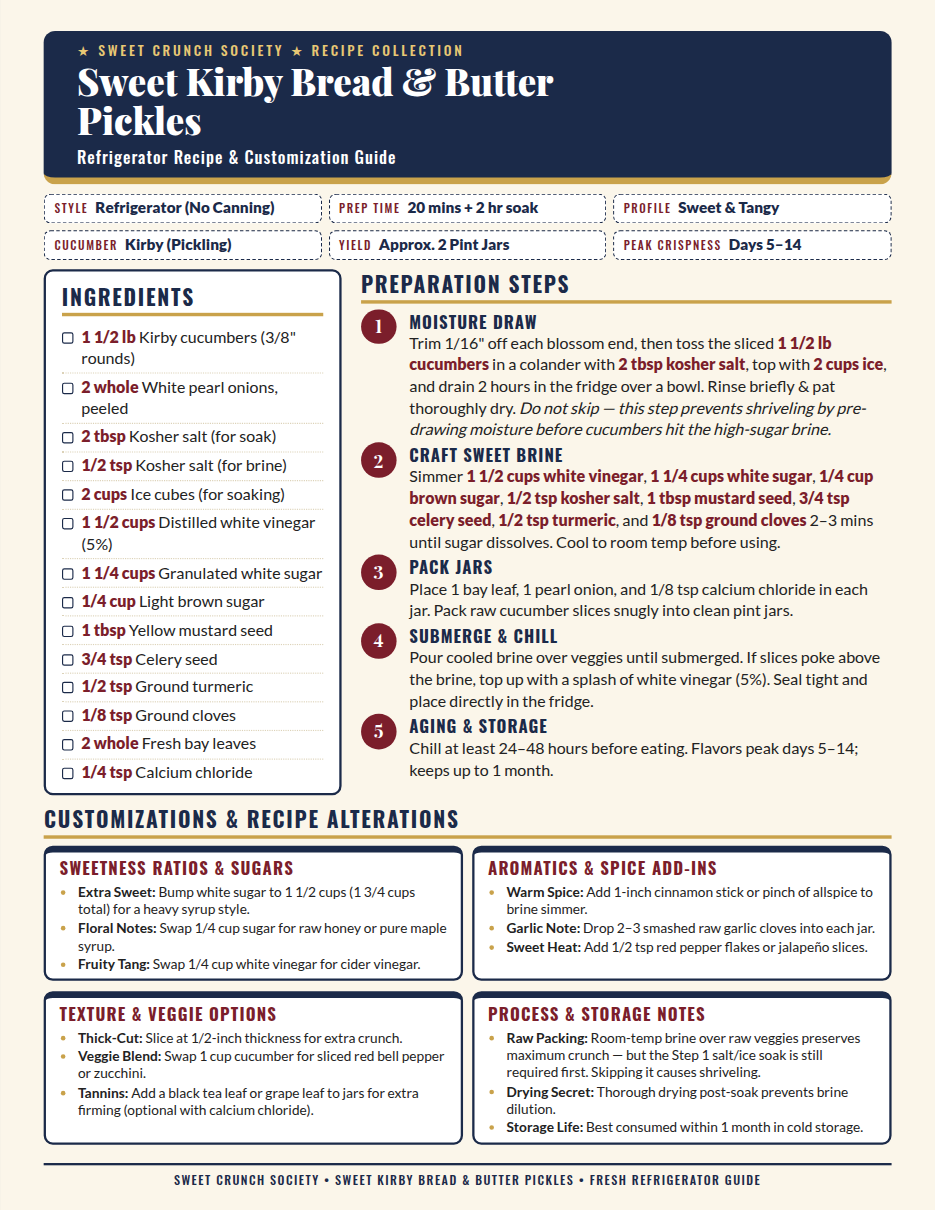
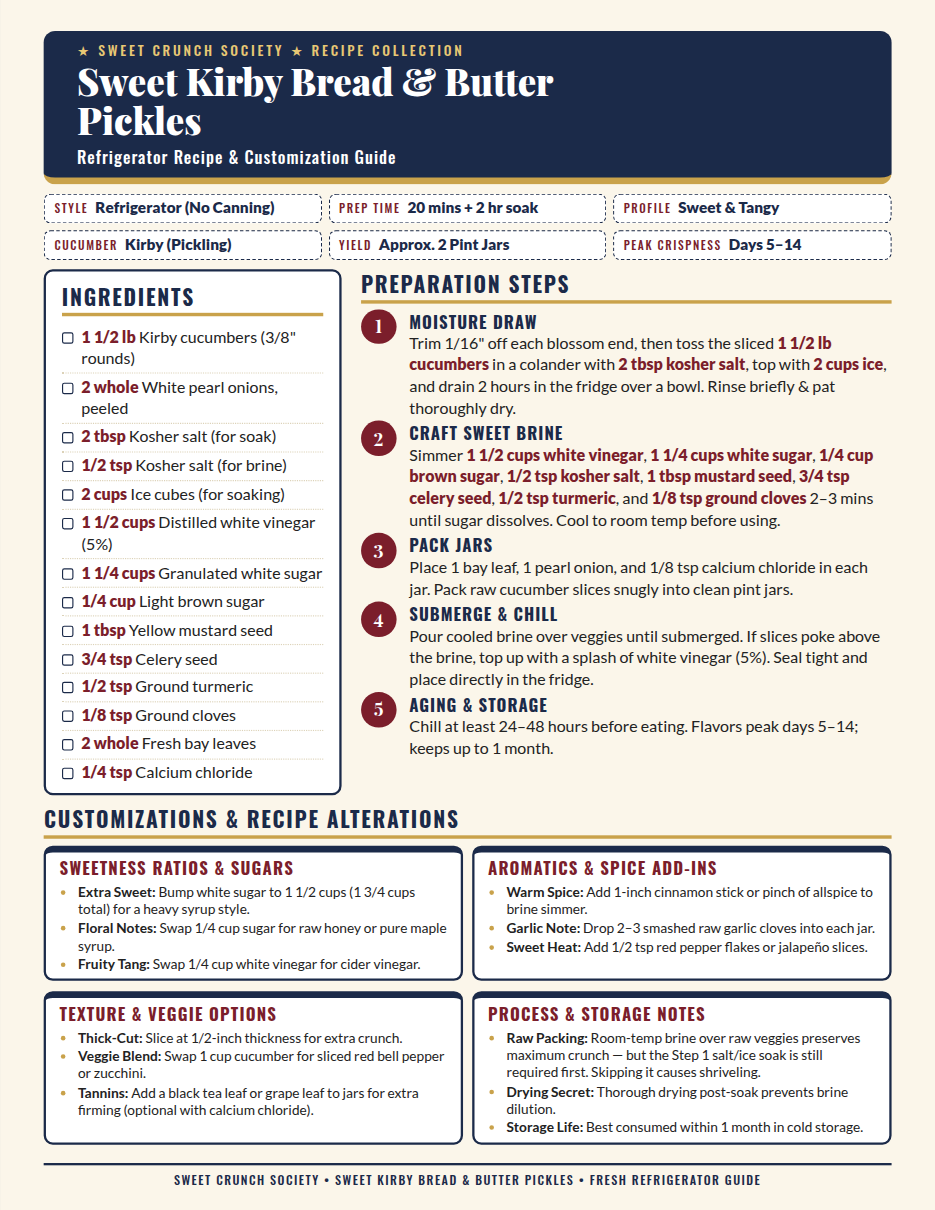
remove: drop "Do not skip" callout from Step 1 on both cards
The italic "Do not skip - this step prevents shriveling..." sentence in the
Moisture Draw step is gone from index.html and index-zesty.html. The
claim was unproven: the first Kirby-switch test showed shriveling even
with the salt/ice soak, so the steps shouldn't assert it as a
requirement. Step 1 now just describes the soak.

The "Raw Packing" notes in Process & Storage Notes still mention the
soak and shriveling; left as-is since only the steps were in scope.

docs: regenerated preview.png and preview-zesty.png. Both cards still
fit one Letter page.

Changed region(s): [[0.3722, 0.3364, 0.9615, 0.6421]]

diff --git a/index-zesty.html b/index-zesty.html
@@ -161,7 +161,7 @@
       <section aria-labelledby="prep">
         <h2 class="sec" id="prep">Preparation Steps</h2>
         <ol class="steps">
-          <li><b>Moisture Draw</b>Trim 1/16" off each blossom end, then toss the sliced <strong>1 1/2 lb cucumbers</strong> in a colander with <strong>2 tbsp kosher salt</strong>, top with <strong>2 cups ice</strong>, and drain 2 hours in the fridge over a bowl. Rinse briefly &amp; pat thoroughly dry. <em>Do not skip — this step prevents shriveling by pre-drawing moisture before cucumbers hit the brine.</em></li>
+          <li><b>Moisture Draw</b>Trim 1/16" off each blossom end, then toss the sliced <strong>1 1/2 lb cucumbers</strong> in a colander with <strong>2 tbsp kosher salt</strong>, top with <strong>2 cups ice</strong>, and drain 2 hours in the fridge over a bowl. Rinse briefly &amp; pat thoroughly dry.</li>
           <li><b>Craft Garlic Brine</b>Combine <strong>1 1/2 cups white vinegar</strong>, <strong>1 cup water</strong>, <strong>1 tbsp kosher salt</strong>, <strong>1 tsp sugar</strong>, <strong>1 tsp peppercorns</strong>, <strong>1/2 tsp mustard seed</strong>, and <strong>1/4 tsp coriander seed</strong>; simmer 2–3 mins. Add <strong>6 smashed garlic cloves</strong>; simmer 1 more minute. Cool to room temp before using.</li>
           <li><b>Pack Jars</b>Place 1 bay leaf, 3 garlic cloves (from brine), 2 dill sprigs, and 1/8 tsp calcium chloride in each jar. Pack cucumber slices snugly into clean pint jars.</li>
           <li><b>Submerge &amp; Chill</b>Pour cooled brine over veggies until submerged. If slices poke above the brine, top up with a splash of white vinegar (5%). Seal tight and place directly in the fridge.</li>

diff --git a/index.html b/index.html
@@ -161,7 +161,7 @@
       <section aria-labelledby="prep">
         <h2 class="sec" id="prep">Preparation Steps</h2>
         <ol class="steps">
-          <li><b>Moisture Draw</b>Trim 1/16" off each blossom end, then toss the sliced <strong>1 1/2 lb cucumbers</strong> in a colander with <strong>2 tbsp kosher salt</strong>, top with <strong>2 cups ice</strong>, and drain 2 hours in the fridge over a bowl. Rinse briefly &amp; pat thoroughly dry. <em>Do not skip — this step prevents shriveling by pre-drawing moisture before cucumbers hit the high-sugar brine.</em></li>
+          <li><b>Moisture Draw</b>Trim 1/16" off each blossom end, then toss the sliced <strong>1 1/2 lb cucumbers</strong> in a colander with <strong>2 tbsp kosher salt</strong>, top with <strong>2 cups ice</strong>, and drain 2 hours in the fridge over a bowl. Rinse briefly &amp; pat thoroughly dry.</li>
           <li><b>Craft Sweet Brine</b>Simmer <strong>1 1/2 cups white vinegar</strong>, <strong>1 1/4 cups white sugar</strong>, <strong>1/4 cup brown sugar</strong>, <strong>1/2 tsp kosher salt</strong>, <strong>1 tbsp mustard seed</strong>, <strong>3/4 tsp celery seed</strong>, <strong>1/2 tsp turmeric</strong>, and <strong>1/8 tsp ground cloves</strong> 2–3 mins until sugar dissolves. Cool to room temp before using.</li>
           <li><b>Pack Jars</b>Place 1 bay leaf, 1 pearl onion, and 1/8 tsp calcium chloride in each jar. Pack raw cucumber slices snugly into clean pint jars.</li>
           <li><b>Submerge &amp; Chill</b>Pour cooled brine over veggies until submerged. If slices poke above the brine, top up with a splash of white vinegar (5%). Seal tight and place directly in the fridge.</li>
